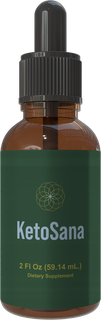
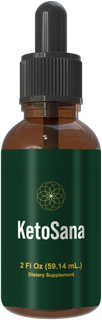
Hub v8.48: brighter bottle mockups (V20 KetoSana 30 ml, bright US KetoSana 2 fl oz and French LigneSana 30 ml, VigorSana FR navy, new collection row)

diff --git a/index.html b/index.html
@@ -1023,6 +1023,7 @@
   .card h3 a.h3a{color:inherit;text-decoration:none}
   .card h3 a.h3a:hover,.card h3 a.h3a:focus-visible{text-decoration:underline;text-underline-offset:3px}
   .card .linkrows.flash{outline:2px solid var(--catc,#1f6feb);outline-offset:6px;border-radius:10px;transition:outline-color .6s}
+  /* v8.48 (27.11.2026): brighter bottle mockups (V20 droppers, VigorSana navy, new collection row) */
 </style>
 
 
@@ -1265,7 +1266,7 @@
           <h3><a class="h3a" href="offers/ketosana/" target="_blank" rel="noopener">KetoSana &mdash; Our Best-Selling Offer Runs on a Keto Mechanism Nobody Else Is Selling</a></h3>
           <p class="subhead">The most orders on the program over the last 90 days — premium liquid drops, AOV €213 (≈ $233) in that window, 60-day guarantee, made-in-Germany trust that closes cold German-speaking traffic.</p>
         </div>
-        <img class="bottle" width="102" height="320" src="img/ketosana.png" alt="KetoSana bottle" loading="lazy" onerror="this.style.display='none'">
+        <img class="bottle" width="214" height="320" src="img/ketosana.png" alt="KetoSana, two 30 ml bottles" loading="lazy" onerror="this.style.display='none'">
         <span class="badge">🏆 #1 by Orders &middot; Last 90 Days</span>
       </header>
       <div class="kpis">
@@ -1620,7 +1621,7 @@
           <h3><a class="h3a" href="offers/vitasana-collection/" target="_blank" rel="noopener">VitaSana Collection &mdash; The Self-Selecting Funnel That Turns One Sale Into &euro;245+ AOV Automatically</a></h3>
           <p class="subhead">Buyers pick their next transformation by their biggest pain point, and you earn 65&ndash;75% across the whole VIP Wellness System.</p>
         </div>
-        <img class="bottle" width="760" height="232" src="img/vitasana-collection.png" alt="VitaSana Collection bottle" loading="lazy" onerror="this.style.display='none'">
+        <img class="bottle" width="1053" height="320" src="img/vitasana-collection.png" alt="VitaSana Collection bottle" loading="lazy" onerror="this.style.display='none'">
         <span class="badge">Lifetime-Customer Machine</span>
       </header>
       <div class="kpis">
@@ -1915,7 +1916,7 @@
           <h3><a class="h3a" href="https://myketosana.com/fr/lignesana-affiliate-page-ds24" target="_blank" rel="noopener">LigneSana &mdash; The French Edition of KetoSana, Our Best-Selling Offer &mdash; Under Its Own French Name</a></h3>
           <p class="subhead">Our keto drops for French-speaking Europe, sold as LigneSana on its own Digistore24 products in the French vendor account &mdash; 60-day money-back guarantee.</p>
         </div>
-        <img class="bottle" width="160" height="320" src="img/lignesana-fr.png" alt="LigneSana bottle, French label" loading="lazy" onerror="this.style.display='none'">
+        <img class="bottle" width="102" height="320" src="img/lignesana-fr.png" alt="LigneSana bottle, French label" loading="lazy" onerror="this.style.display='none'">
         <span class="badge green">New Market &middot; live since 6 November 2026</span>
       </header>
       <div class="kpis">
@@ -1974,7 +1975,7 @@
           <h3><a class="h3a" href="https://myketosana.com/en/ketosana-affiliate-page-ds24" target="_blank" rel="noopener">KetoSana &mdash; Our Best-Selling Offer, Now in English &mdash; Checkout in US Dollars</a></h3>
           <p class="subhead">The English edition of KetoSana: premium liquid drops, the same doctor, a 60-day money-back guarantee &mdash; and orders shipped from our US fulfillment center.</p>
         </div>
-        <img class="bottle" width="101" height="320" src="img/ketosana-us.png" alt="KetoSana bottle, English label" loading="lazy" onerror="this.style.display='none'">
+        <img class="bottle" width="102" height="320" src="img/ketosana-us.png" alt="KetoSana bottle, English label" loading="lazy" onerror="this.style.display='none'">
         <span class="badge green">New Market &middot; English</span>
       </header>
       <div class="kpis">
@@ -2383,7 +2384,7 @@
 
 <footer>
   <div class="wrap">
-    <div><b>SanaSocials Affiliate Hub</b> · v8.47 · run by the SanaSocials partner team · affiliate manager: <b>Stefan Richter</b> · <a href="mailto:affiliates@sana-socials.com">affiliates@sana-socials.com</a></div>
+    <div><b>SanaSocials Affiliate Hub</b> · v8.48 · run by the SanaSocials partner team · affiliate manager: <b>Stefan Richter</b> · <a href="mailto:affiliates@sana-socials.com">affiliates@sana-socials.com</a></div>
     <nav class="legallinks" aria-label="Hub pages">
       <a href="tracking/">Tracking Guide</a>
       <a href="claims/">Claims Center</a>

diff --git a/offers/ketosana/index.html b/offers/ketosana/index.html
@@ -243,7 +243,7 @@
         <p class="subhead">The most orders on the program over the last 90 days — premium liquid drops, AOV €213 (≈ $233) in that window, 60-day guarantee, made-in-Germany trust that closes cold German-speaking traffic.</p>
         <span class="badge ">🏆 #1 by Orders &middot; Last 90 Days</span>
       </div>
-      <img class="bottle-hero" width="102" height="320" src="../../img/ketosana.png" alt="KetoSana bottle render" loading="lazy" onerror="this.style.display='none'">
+      <img class="bottle-hero" width="214" height="320" src="../../img/ketosana.png" alt="KetoSana bottle render" loading="lazy" onerror="this.style.display='none'">
     </div>
     <div class="kpis" role="list"><div class="kpi"><b>On request</b><span>EPC &middot; ask Stefan</span></div><div class="kpi"><b>€222</b><span>AOV · ≈ $243</span></div><div class="kpi"><b>65–75%</b><span>RevShare</span></div><div class="kpi"><b>€120–150</b><span>CPA · $140–180</span></div><div class="kpi"><b>30–60+</b><span>Women &amp; Men</span></div></div>
   </div>

diff --git a/offers/vitasana-collection/index.html b/offers/vitasana-collection/index.html
@@ -243,7 +243,7 @@
         <p class="subhead">Buyers pick their next transformation by their biggest pain point, and you earn 65&ndash;75% across the whole VIP Wellness System.</p>
         <span class="badge ">Lifetime-Customer Machine</span>
       </div>
-      <img class="bottle-hero" width="760" height="232" src="../../img/vitasana-collection.png" alt="VitaSana Collection bottle render" loading="lazy" onerror="this.style.display='none'">
+      <img class="bottle-hero" width="1053" height="320" src="../../img/vitasana-collection.png" alt="VitaSana Collection bottle render" loading="lazy" onerror="this.style.display='none'">
     </div>
     <div class="kpis" role="list"><div class="kpi"><b>On request</b><span>EPC &middot; ask Stefan</span></div><div class="kpi"><b>&euro;245+</b><span>AOV</span></div><div class="kpi"><b>65&ndash;75%</b><span>RevShare, whole system</span></div><div class="kpi"><b>&euro;120&ndash;150</b><span>CPA &middot; proven volume</span></div><div class="kpi"><b>8</b><span>Products, one funnel</span></div></div>
   </div>
